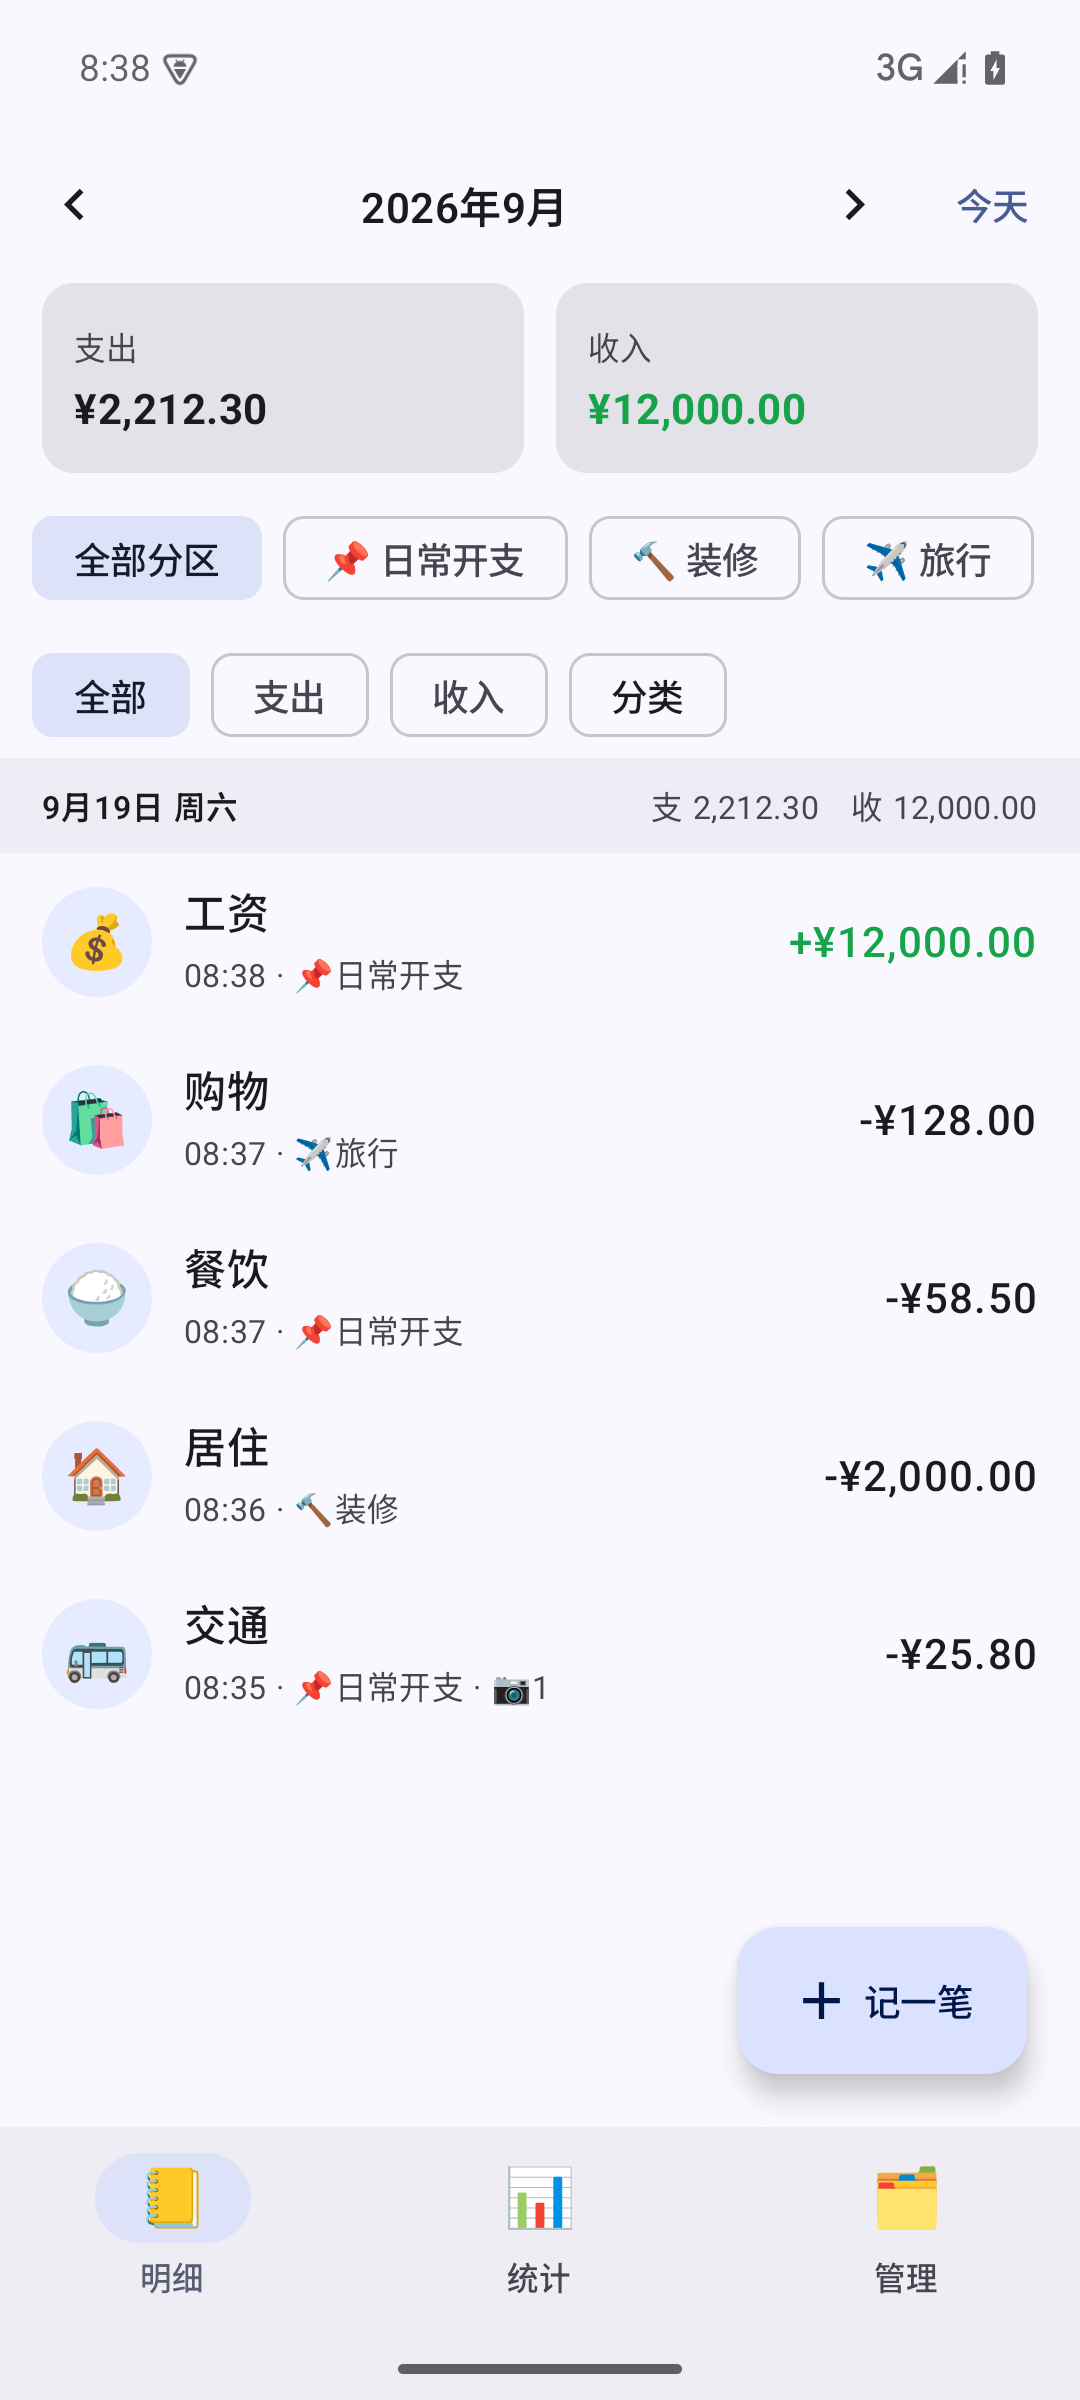
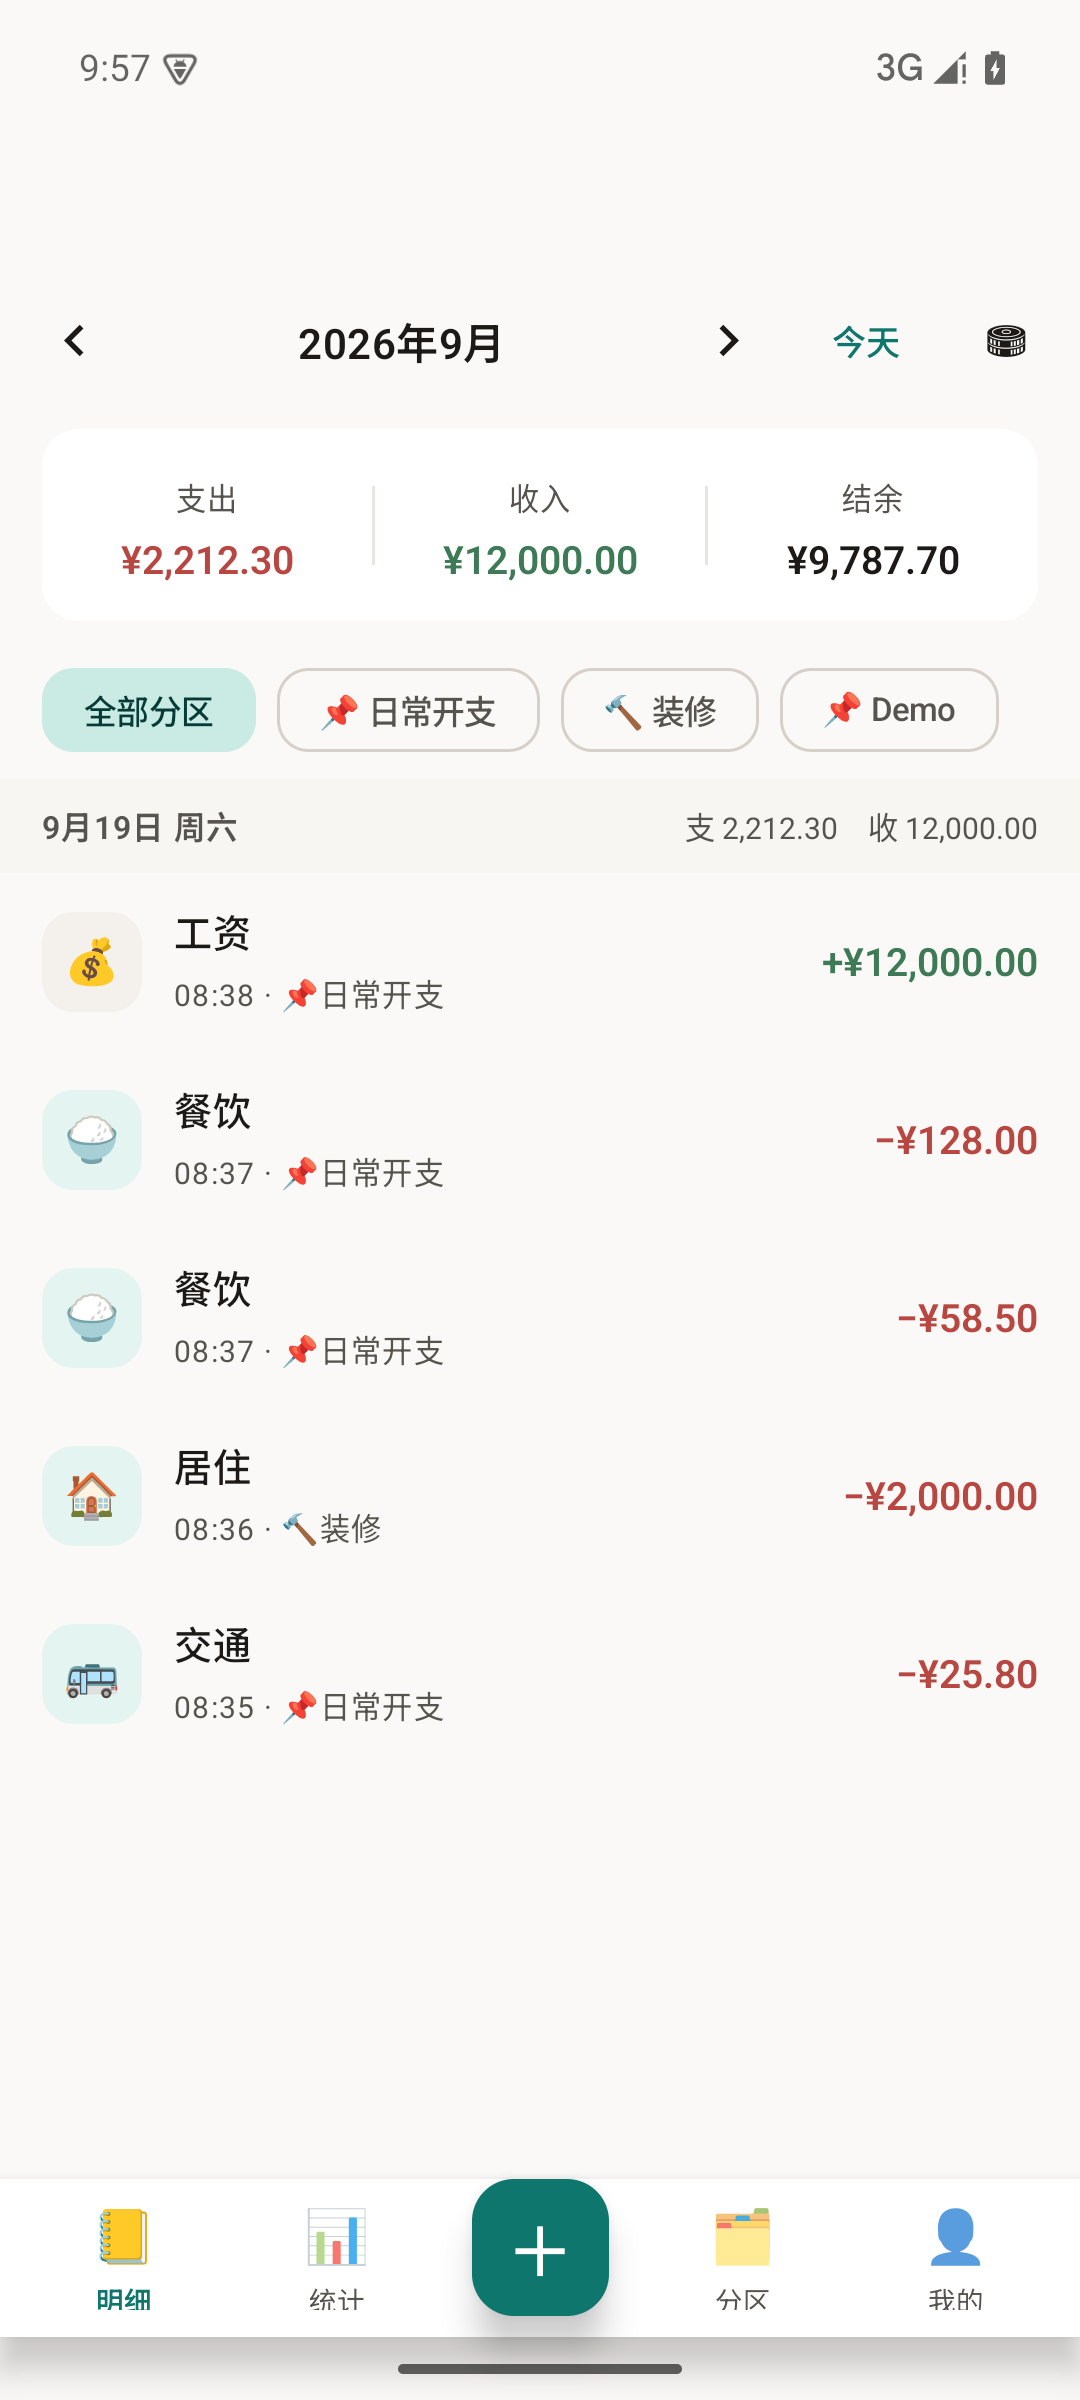
docs: README 预览与功能说明同步新版界面（含大屏双栏实拍）

diff --git a/README.md b/README.md
@@ -4,26 +4,31 @@
 
 ## 功能
 
-- **分区管理**：账目按分区（如「日常开支」「装修」「旅行」）归类，每个分区支持独立的**分区备注**（可写预算、用途说明）
+- **分区管理**：账目按分区（如「日常开支」「装修」「旅行」）归类；每个分区支持独立的**分区备注**与**月度预算**，统计页给出进度条与超支预警
 - **自定义分类**：支出 / 收入类型完全自定义（名称 + emoji 图标 + 排序），删除分类时账目自动迁移到兜底分类
-- **记一笔**：金额、分类、分区、**日期时间**（可改过去任意时间）、**单独备注**、**多张贴图**（系统相册选择，自动压缩存入应用私有目录）
-- **自动统计**：本月支出 / 收入 / 结余总览，分类占比环形图，每日支出柱状图，**分区汇总**（含分区备注与占比进度条）
-- **时间管理**：明细按天分组展示每日小计，支持月份切换、按分区 / 分类 / 类型筛选
+- **记一笔**：金额、分类、分区、**日期时间**（可改过去任意时间）、**单独备注**、**多张贴图**（系统相册选择，自动压缩存入应用私有目录）。保存后提示「已记入 …」并支持**撤销**
+- **自动统计**：本月支出 / 收入 / 结余总览，分类占比环形图，每日支出柱状图，**分区预算进度**
+- **时间管理**：明细按天分组展示每日小计，支持月份切换、按分区 / 类型 / 分类筛选，空态可直接清除筛选
+- **我的**：数据导出 CSV、完整备份与恢复（含全部贴图）、主题与动态取色、隐藏金额
+- **多端适配**：手机（底部五槽位导航 + 中央「记一笔」）· 折叠屏 / 平板（Navigation Rail）· 大屏（列表–详情双栏）
 - 隐私优先：0 权限申请，无网络，无追踪；数据跟随系统备份（云备份 / 换机迁移）
 
 ## 界面预览
 
-| 明细（按天分组 + 筛选） | 记一笔（贴图 / 备注 / 时间） |
+> 视觉方向为「温和人文派」：暖中性底色、克制的青绿品牌色、等宽数字。
+> 完整设计规范（线框 / 视觉稿 / 组件 / 无障碍）见 [`docs/design/index.html`](docs/design/index.html)。
+
+| 明细（三栏概览 · 分区筛选） | 记一笔（贴图 / 备注 / 时间） |
 |---|---|
 | ![明细](docs/screenshots/ledger.png) | ![记一笔](docs/screenshots/add-entry.png) |
 
-| 统计（占比环形图） | 分区汇总（含分区备注） |
+| 统计（占比 · 趋势 · 分区预算） | 分区与分类（含月度预算） |
 |---|---|
-| ![统计](docs/screenshots/stats.png) | ![分区汇总](docs/screenshots/stats-by-section.png) |
+| ![统计](docs/screenshots/stats.png) | ![分区](docs/screenshots/manage.png) |
 
-| 分区管理 | 新建分区（emoji + 备注） |
+| 我的（隐私承诺 · 导出与备份） | 大屏双栏（≥840dp） |
 |---|---|
-| ![管理](docs/screenshots/manage.png) | ![新建分区](docs/screenshots/new-section-dialog.png) |
+| ![我的](docs/screenshots/mine.png) | ![大屏](docs/screenshots/wide-two-pane.png) |
 
 ## 技术栈
 
